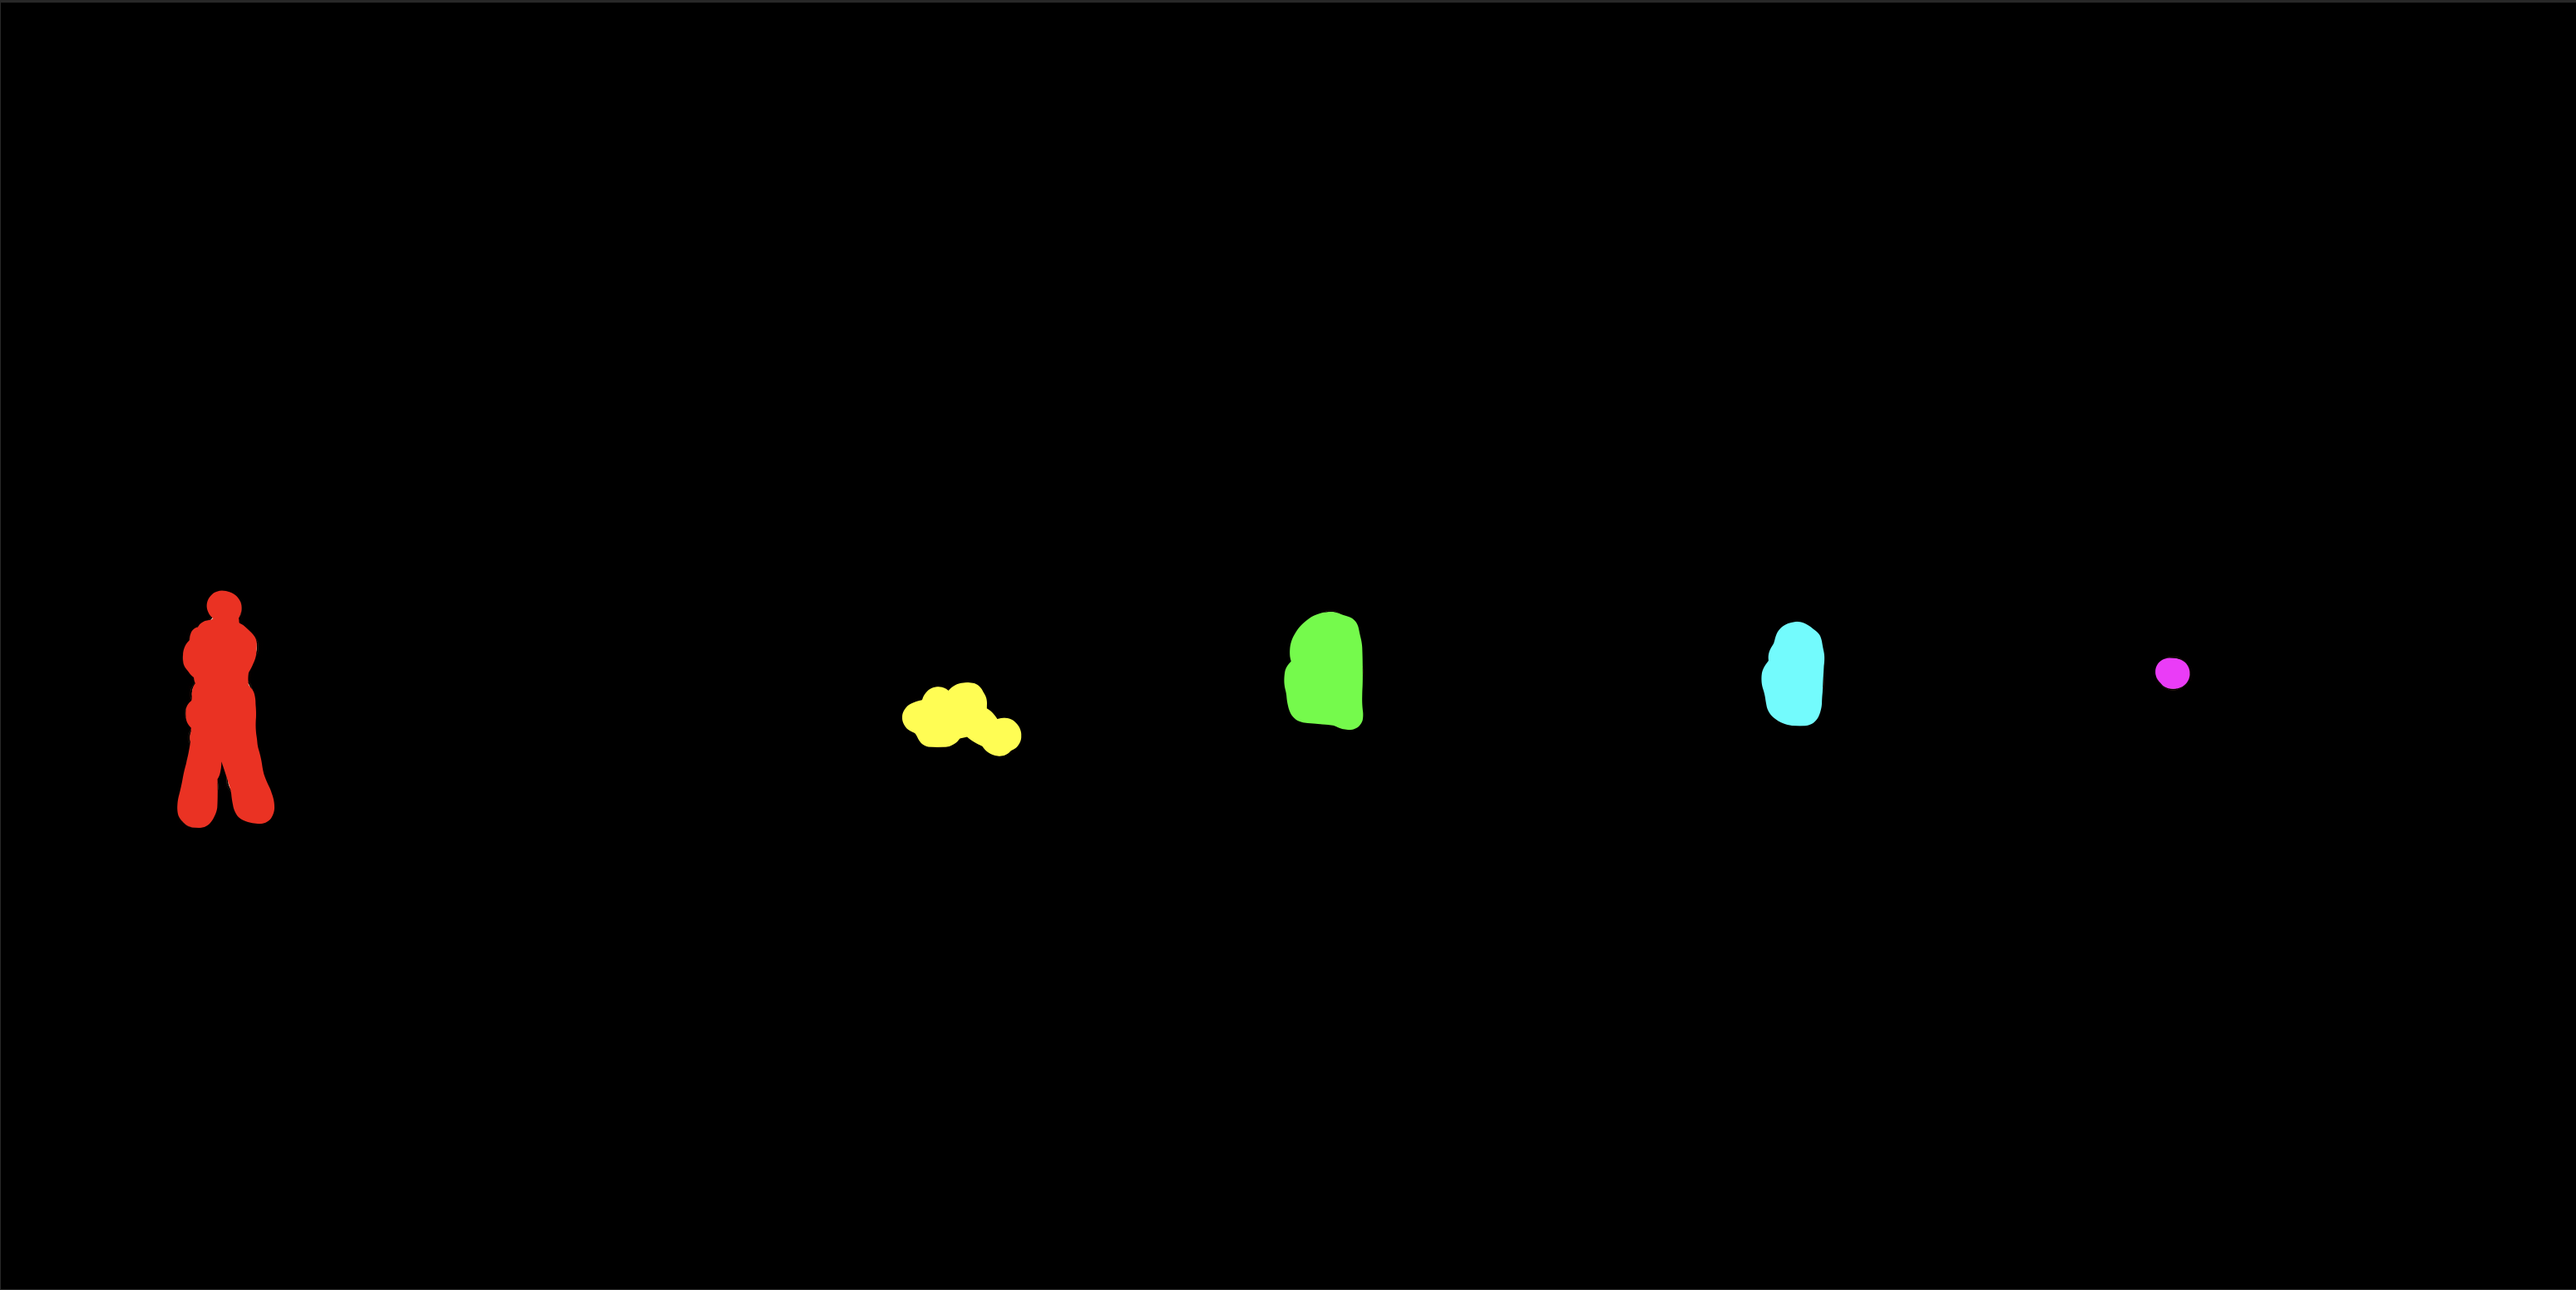
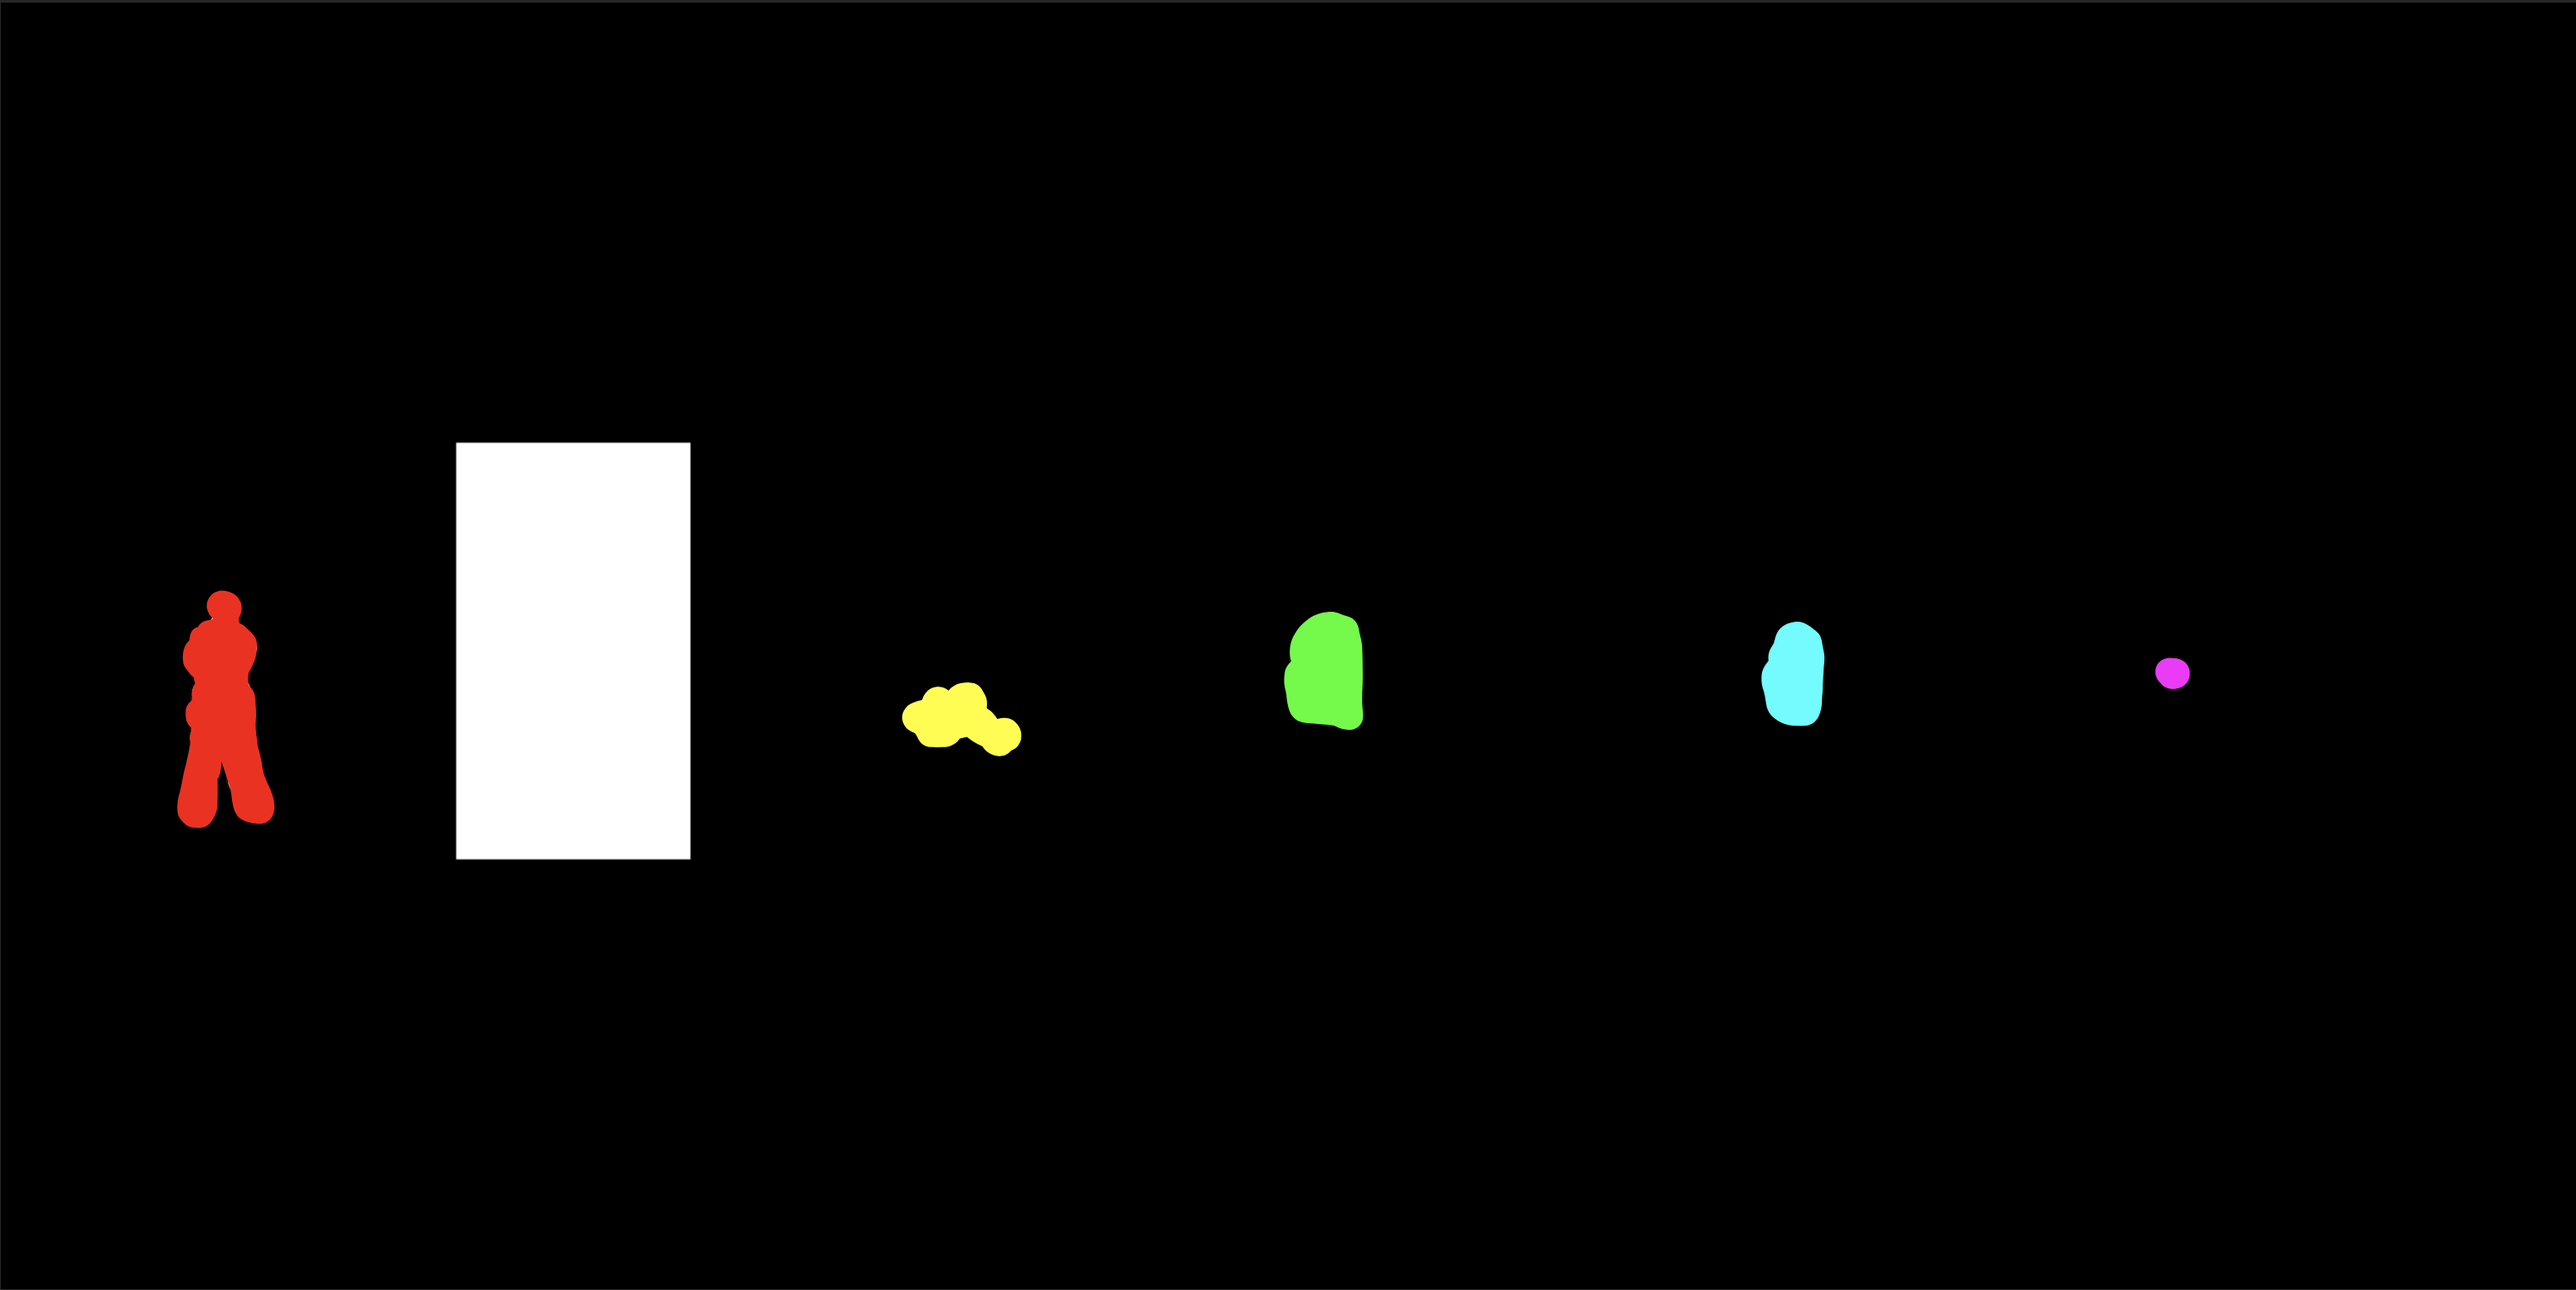
white

Changed region(s): [[0.1549, 0.3402, 0.2789, 0.6804]]

diff --git a/src/scenes/SceneOne/SceneOne.tsx b/src/scenes/SceneOne/SceneOne.tsx
@@ -25,7 +25,7 @@ const store = [
 ]
 
 const SceneOne = () => {
-  const [selectedScene, setSelectedScene] = useState(1)
+  const [selectedScene, setSelectedScene] = useState(0)
   const [canClick, setCanClick] = useState(false)
 
   const { toggleNpcColor, toggleQuestDialog } = useGameStore()
@@ -101,6 +101,10 @@ const SceneOne = () => {
                 setCanClick(true)
                 toggleNpcColor(colorCheck)
                 break
+                case ColorMap.WHITE:
+                  setCanClick(true)
+                  toggleNpcColor(colorCheck)
+                  break
               default:
                 toggleNpcColor('')
                 setCanClick(false)

diff --git a/src/types.ts b/src/types.ts
@@ -4,20 +4,17 @@ export type Dialoge = {
   answer: string
 }
 
-export type ColorNames = "YELLOW" | "GREEN" | "RED" | "AQUA" | "PINK"
-export type ColorNames2 = "YELLOW" | "AQUA" | "PINK"
+export type ColorNames = 'YELLOW' | 'GREEN' | 'RED' | 'AQUA' | 'PINK' | 'WHITE'
+export type ColorNames2 = 'YELLOW' | 'AQUA' | 'PINK' | 'WHITE'
 
 export interface INpc {
-
-    name: string
-    idx: number
-    color: ColorMap
-    model: {
-      obj: string
-      mtl: string
-    }
-    dialogs: Dialoge[]
-    position: number[]
+  name: string
+  idx: number
+  color: ColorMap
+  model: {
+    obj: string
+    mtl: string
   }
-
-
+  dialogs: Dialoge[]
+  position: number[]
+}

diff --git a/src/utlis.ts b/src/utlis.ts
@@ -4,6 +4,7 @@ export enum ColorMap {
   RED = '100',
   AQUA = '011',
   PINK = '101',
+  WHITE = '111'
 }
 
 export enum IndexMap {
@@ -12,6 +13,7 @@ export enum IndexMap {
   RED = 3,
   AQUA = 4,
   PINK = 5,
+  WHITE = 0
 }
 
 
